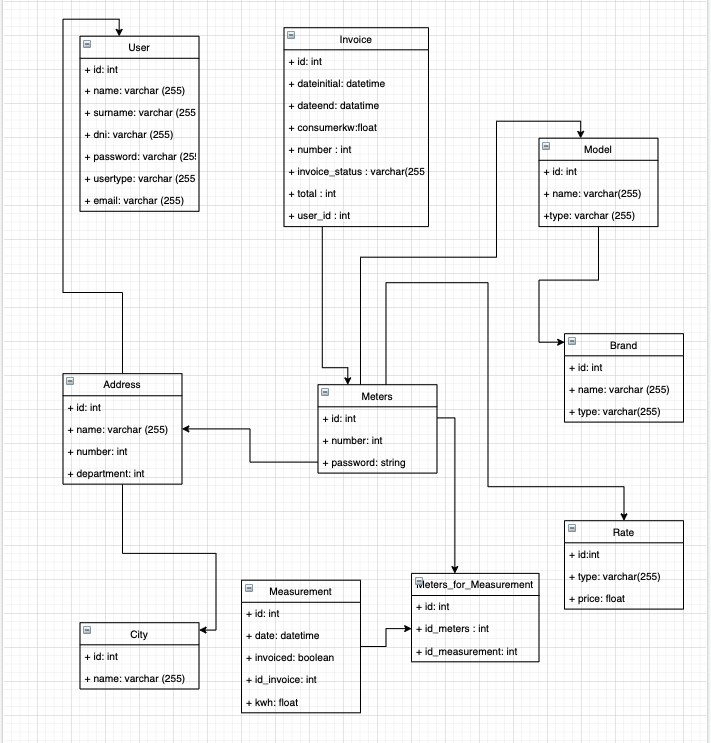
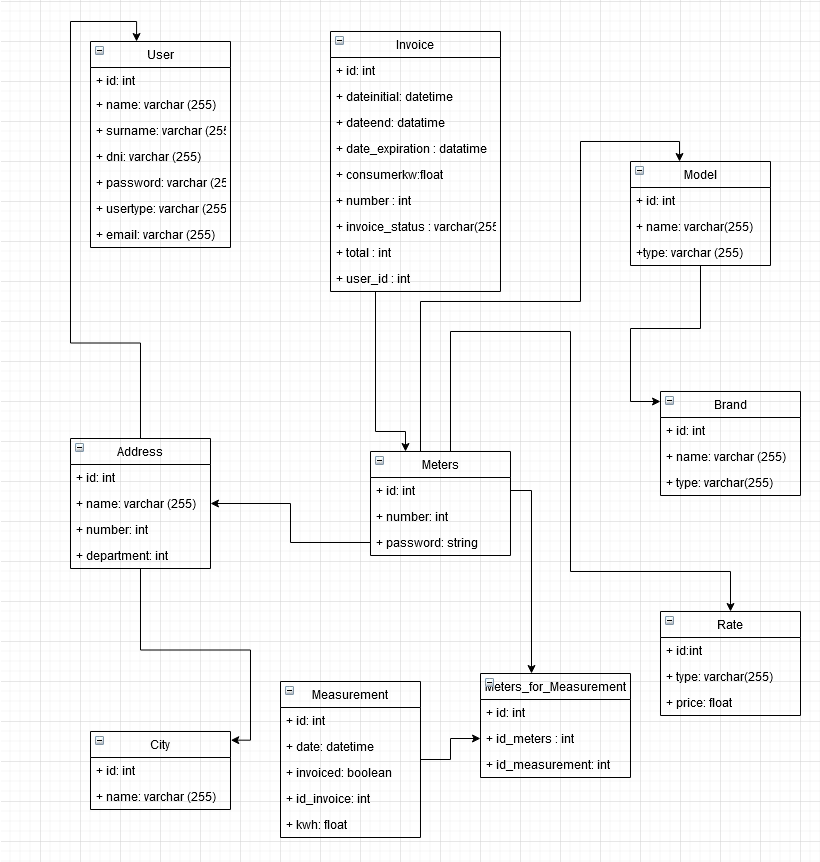
Modifications

Changed region(s): [[0.0619, 0.0, 1.0, 1.0], [0.0619, 0.0, 0.3094, 0.4643], [0.0928, 0.7429, 0.3094, 0.9596]]

diff --git a/src/main/java/com/tp/udde/domain/Measurement.java b/src/main/java/com/tp/udde/domain/Measurement.java
@@ -28,6 +28,9 @@ public class Measurement {
     @Column(name = "id_invoice")
     private int idInvoice;
 
+    @Column(name = "invoice")
+    private float invoiced;
+
     @Column(name = "kwh", nullable = false)
     private float kwh;
 
